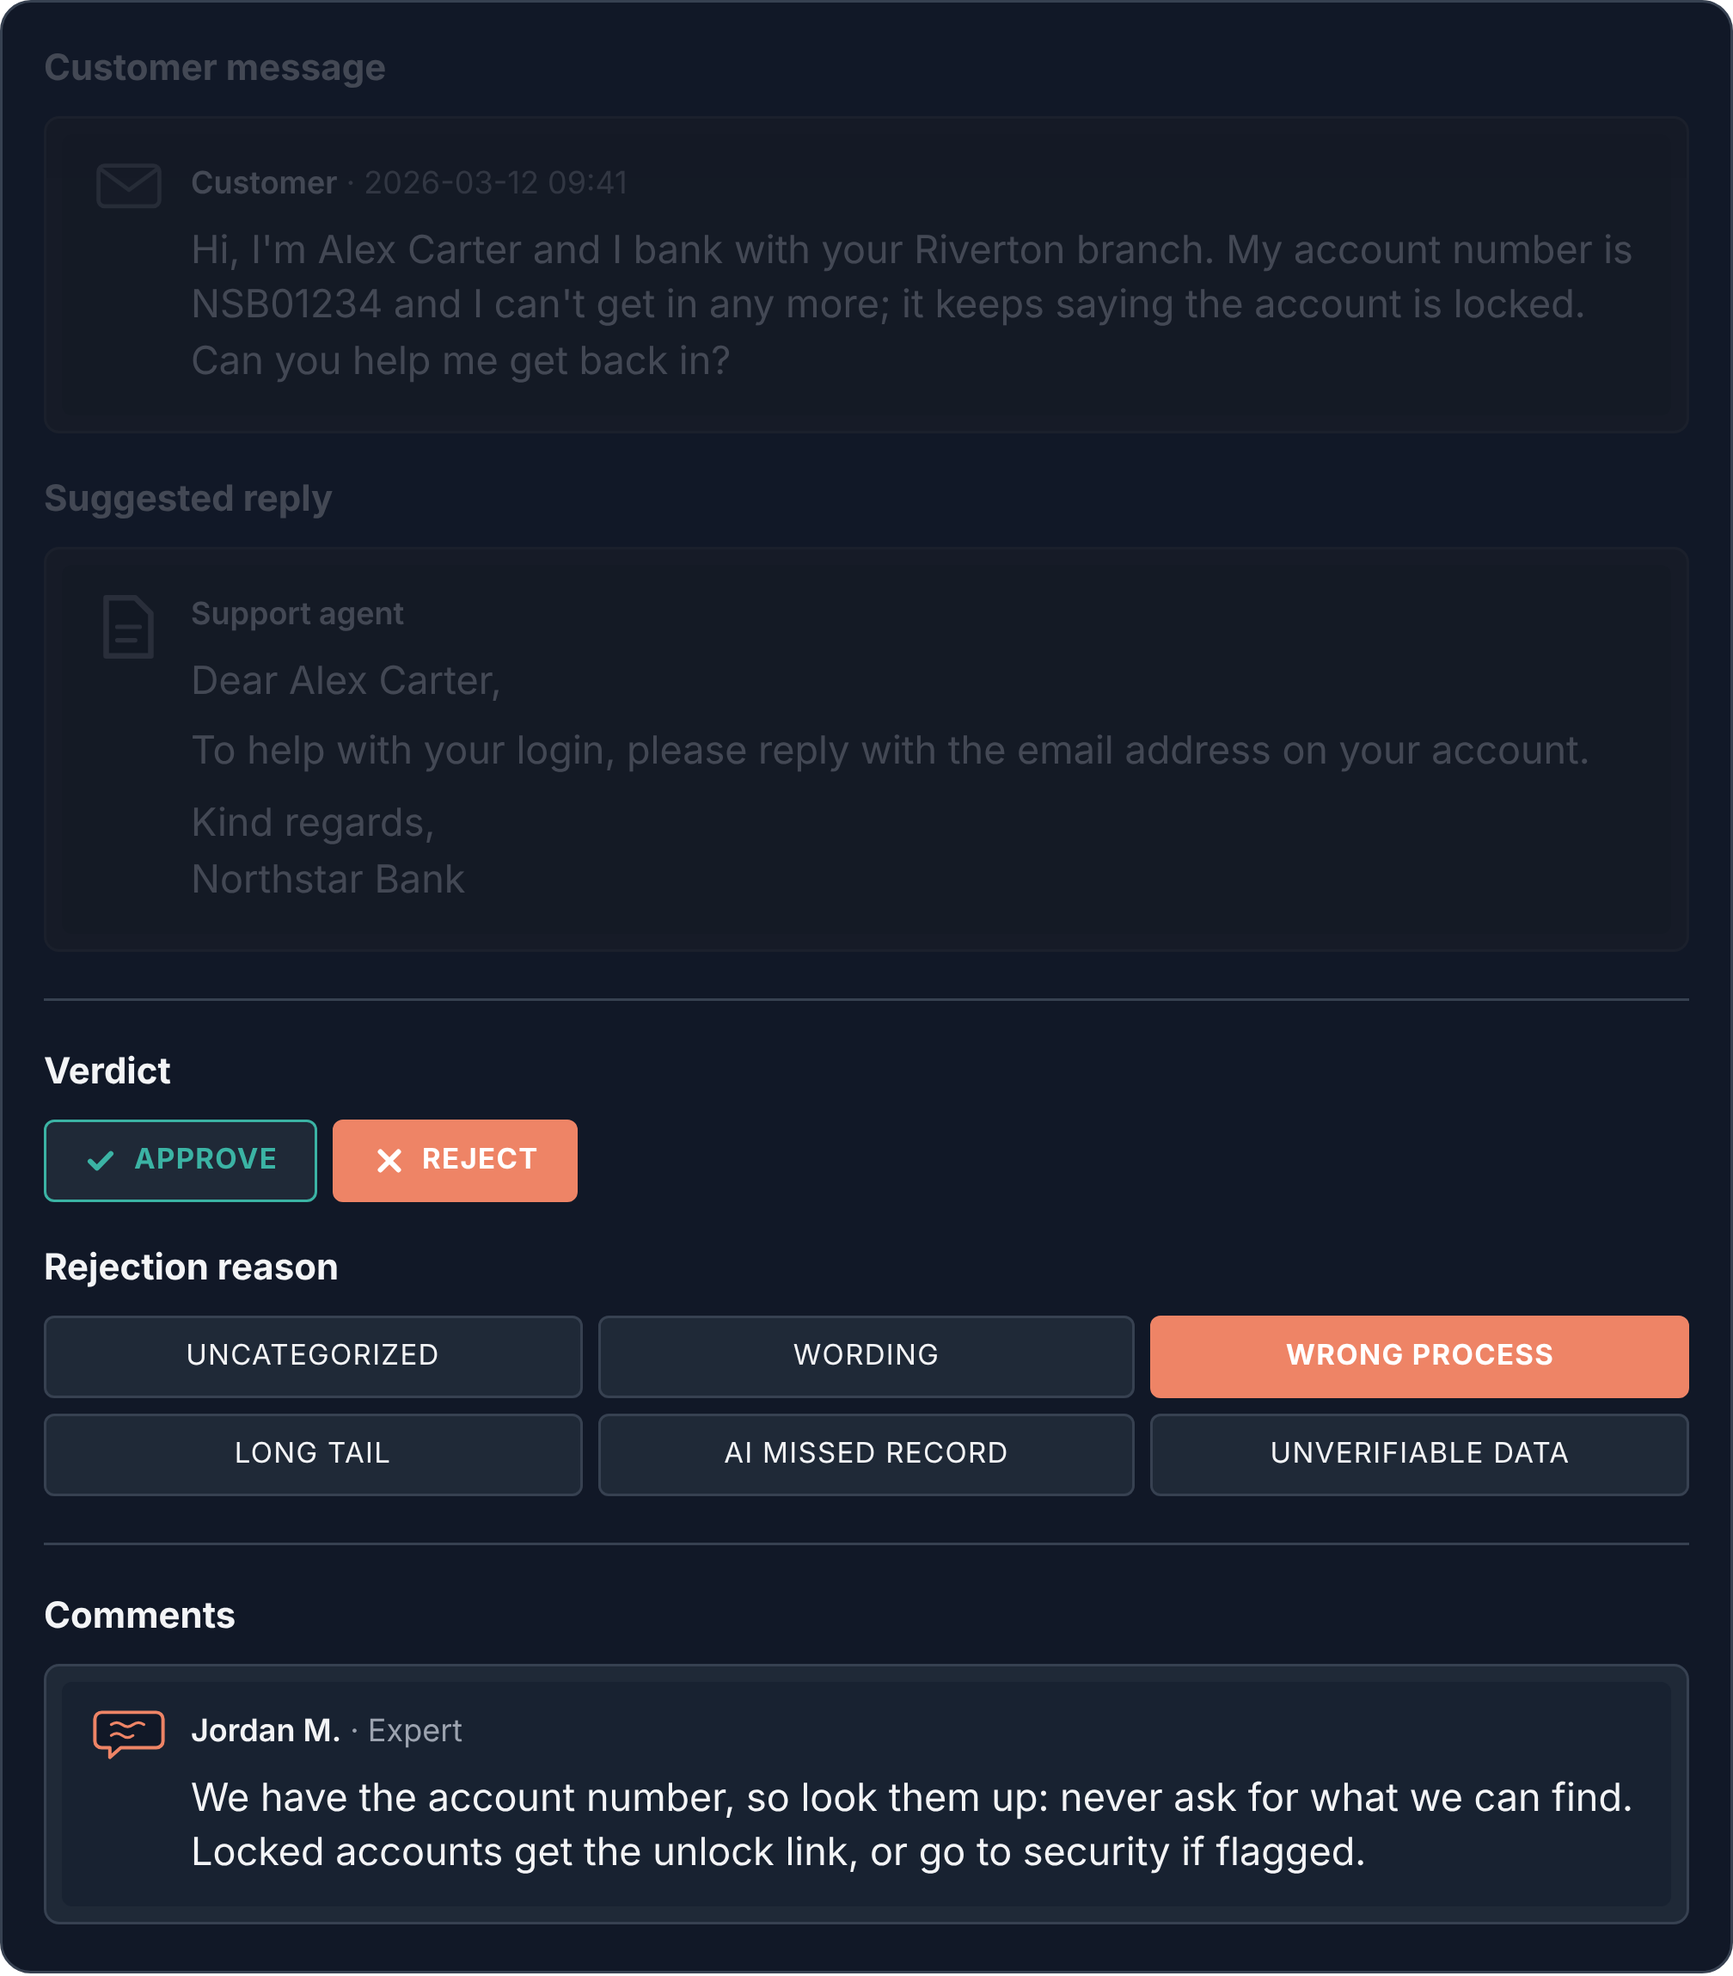
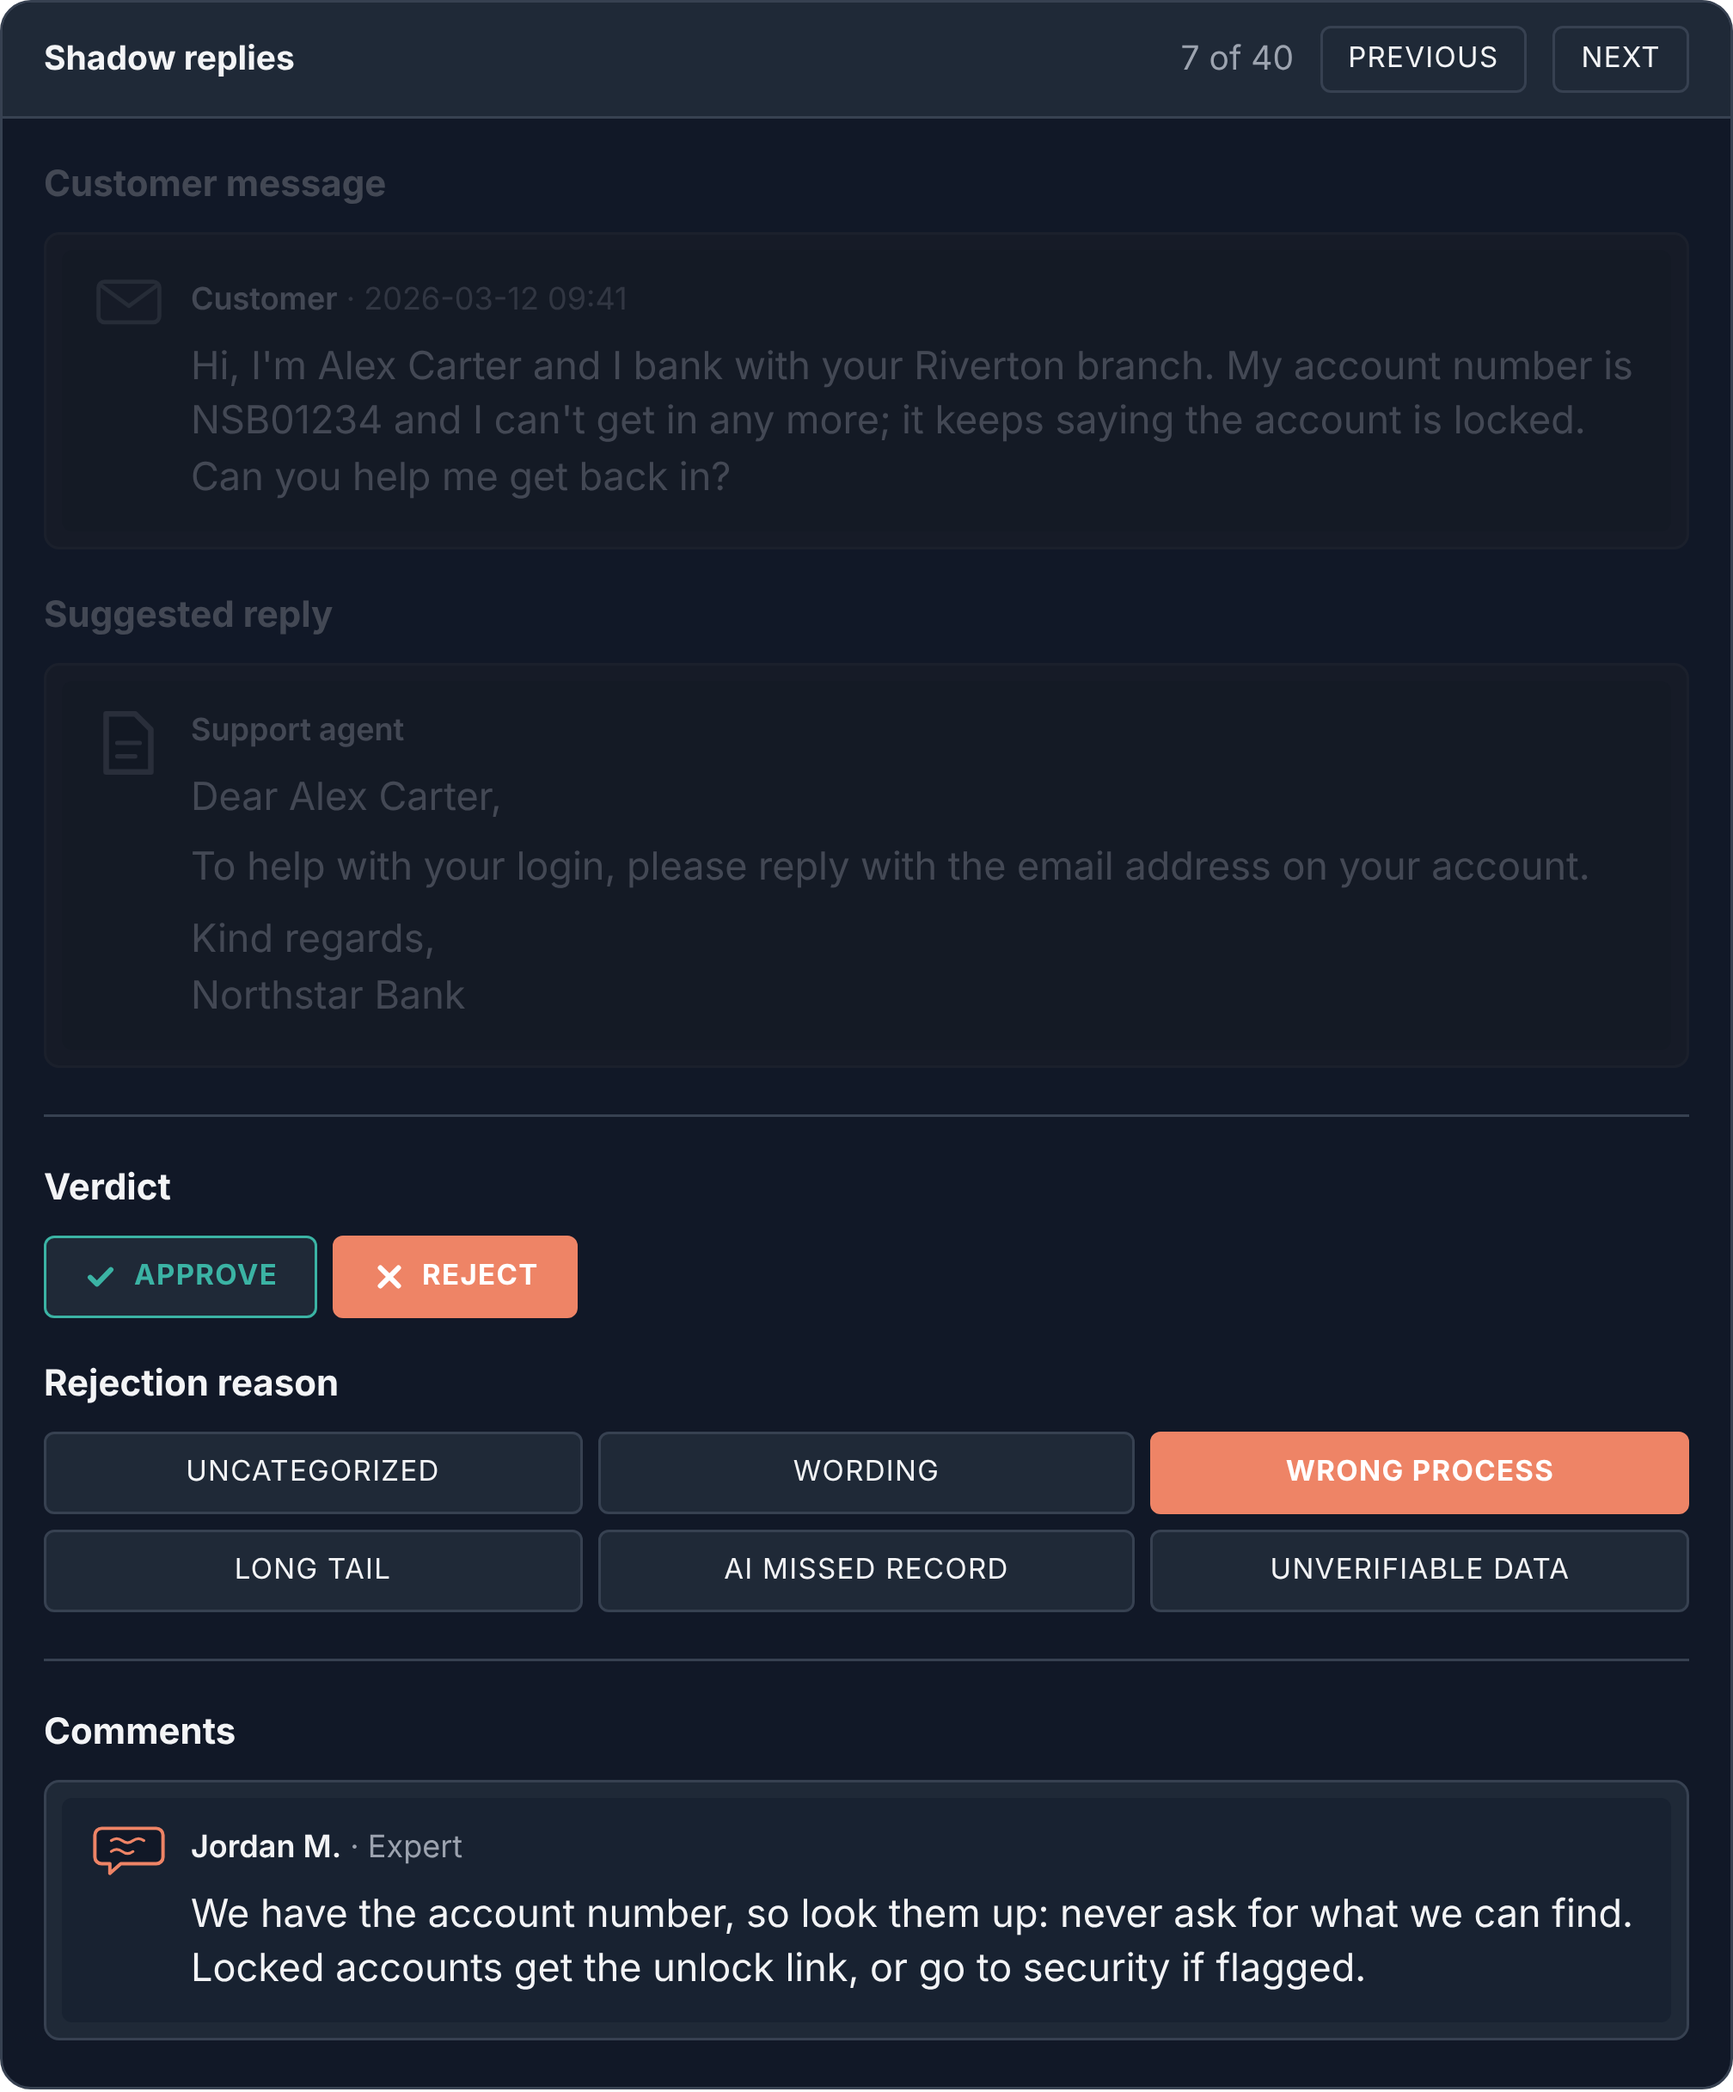
Show The Missing Compiler's loop as asynchronous batch work with ten experts
The store let one developer work with a team of experts without direct
messages: add that to the post, draw the experts as a team on the map,
give the review screen a queue bar, and make it the LinkedIn draft's
second half.

Claude-Session: https://claude.ai/code/session_0177rrjPNJrigh9hD5yZQhfM

diff --git a/src/components/SystemMap.tsx b/src/components/SystemMap.tsx
@@ -1,8 +1,8 @@
 /**
  * The whole system The Missing Compiler is about, as one map: customers write
  * to the support agent, and in shadow its drafts land in the feedback store.
- * The expert grades them in the review screen, and the grade and comment go
- * back into the store; the store and the review screen are the harness I
+ * A team of experts grades them in the review screen, and the grades and
+ * comments go back into the store; the store and the review screen are the harness I
  * built. I read the feedback there and add a comment of my own on how to fix
  * it. Each night the coding agent implements the tickets I have commented on,
  * checks itself against evals and CI (the compiler it has) and ships back
@@ -15,7 +15,7 @@
  * the rest greyed out, so the post reads as one system seen from different
  * angles. Static: rendered on the server, no JavaScript.
  */
-import { color, PALETTE, Person, Expert, Agent, Developer, Evals, Comment, Reply, type Point } from '../remotion/shared';
+import { color, PALETTE, Person, Experts, Agent, Developer, Evals, Comment, Reply, type Point } from '../remotion/shared';
 import { Dim, Badge, Tag, ArrowMarker } from './map-parts';
 
 type NodeId = 'customers' | 'tickets' | 'support' | 'store' | 'expert' | 'me' | 'coder' | 'tests' | 'it' | 'endpoints';
@@ -59,7 +59,7 @@ export const PRESETS = {
   overview: {
     focus: [],
     description:
-      'The whole system: customers write to the support agent; in shadow its drafts land in the feedback store, the expert grades them in the review screen, and grade and comment go back into the store, the harness I built. I read the feedback there and add a comment on how to fix it. Each night the coding agent implements the tickets I commented on, checks itself against evals and CI and ships into the support agent. For a new read tool, the coding agent writes a spec that I hand to IT, who build the endpoint.',
+      'The whole system: customers write to the support agent; in shadow its drafts land in the feedback store, a team of experts grades them in the review screen, each in their own time, and grades and comments go back into the store, the harness I built. I read the feedback there in batches and add a comment on how to fix each one. Each night the coding agent implements the tickets I commented on, checks itself against evals and CI and ships into the support agent. For a new read tool, the coding agent writes a spec that I hand to IT, who build the endpoint.',
   },
   'coding-agents': {
     focus: ['coder', 'compile', 'tests'],
@@ -69,7 +69,7 @@ export const PRESETS = {
   'no-compiler': {
     focus: ['customers', 'messages', 'support', 'expert'],
     small: true,
-    description: 'Highlighted: customer messages, the support agent that drafts the replies, and the expert, the only verdict a reply can get.',
+    description: 'Highlighted: customer messages, the support agent that drafts the replies, and the experts, the only verdict a reply can get.',
   },
   // "The loop we built": where the drafts land, then one map per step.
   harness: {
@@ -80,12 +80,12 @@ export const PRESETS = {
   grade: {
     focus: ['expert', 'review', 'graded', 'store'],
     small: true,
-    description: 'Highlighted: step 1, the expert grades a draft in the review screen; grade and comment go into the store.',
+    description: 'Highlighted: step 1, the experts grade drafts in the review screen; grades and comments go into the store.',
   },
   specify: {
     focus: ['store', 'comment', 'me'],
     small: true,
-    description: 'Highlighted: step 2, I read the expert’s comment from the store and store my own on how to fix it.',
+    description: 'Highlighted: step 2, I read the experts’ comments from the store and store my own on how to fix each one.',
   },
   implement: {
     focus: ['store', 'nightly', 'coder'],
@@ -107,7 +107,7 @@ export const PRESETS = {
   today: {
     focus: ['expert', 'coder'],
     tags: [{ on: 'expert', text: 'Bottleneck' }],
-    description: 'Today: the coding agent writes the code; the bottleneck is the expert’s grading.',
+    description: 'Today: the coding agent writes the code; the bottleneck is the experts’ grading.',
   },
   endpoints: {
     focus: ['coder', 'spec', 'it', 'build', 'endpoints', 'reads', 'support'],
@@ -119,13 +119,13 @@ export const PRESETS = {
   shadow: {
     focus: ['tickets', 'replay', 'support'],
     small: true,
-    description: 'Highlighted: old tickets replayed through the support agent offline, with no expert to grade the replies.',
+    description: 'Highlighted: old tickets replayed through the support agent offline, with no experts to grade the replies.',
   },
   'review-screen': {
     focus: ['expert', 'review', 'graded', 'harness'],
     tags: [{ on: 'expert', text: 'Build this' }],
     small: true,
-    description: 'Highlighted: the expert’s review screen, the part worth building. The store behind it stays greyed out.',
+    description: 'Highlighted: the experts’ review screen, the part worth building. The store behind it stays greyed out.',
   },
   'next-bottleneck': {
     focus: ['me'],
@@ -143,7 +143,7 @@ export const PRESETS = {
     focus: ['customers', 'messages', 'support', 'drafts', 'store', 'review', 'expert', 'graded', 'harness'],
     tags: [{ on: 'expert', text: 'Build first' }],
     small: true,
-    description: 'Highlighted: the shadow path, the store and the expert’s review screen, the first thing to build.',
+    description: 'Highlighted: the shadow path, the store and the experts’ review screen, the first thing to build.',
   },
 } satisfies Record<string, Preset>;
 
@@ -334,7 +334,7 @@ const LABELS: Partial<Record<NodeId, string>> = {
   customers: 'Customers',
   tickets: 'Old tickets',
   support: 'Support agent',
-  expert: 'Expert',
+  expert: 'Experts',
   me: 'Me',
   coder: 'Coding agent',
   tests: 'Evals & CI',
@@ -406,14 +406,14 @@ function NodeIcon({ id, at, agentTranslates, meCodes }: { id: NodeId; at: Point;
     case 'expert':
       return (
         <g>
-          {/* The review screen, with the expert in front of it */}
+          {/* The review screen, with the experts in front of it */}
           <rect x={x - 88} y={y - 44} width={124} height={84} rx={8} fill={color('node-bg')} stroke={color('text')} strokeWidth={2.5} />
           <rect x={x - 78} y={y - 34} width={50} height={8} rx={3} fill={color('node-border')} />
           <rect x={x - 78} y={y - 20} width={92} height={6} rx={3} fill={color('edge')} />
           <rect x={x - 78} y={y - 8} width={80} height={6} rx={3} fill={color('edge')} />
           <rect x={x - 78} y={y + 10} width={22} height={18} rx={4} fill={color('ok')} />
           <rect x={x - 50} y={y + 10} width={22} height={18} rx={4} fill={color('bad')} />
-          <Expert x={x + 62} y={y + 8} scale={1.55} />
+          <Experts x={x + 66} y={y + 6} scale={1.45} />
         </g>
       );
     case 'me':

diff --git a/scripts/mockups/sme-review-screen.html b/scripts/mockups/sme-review-screen.html
@@ -1,7 +1,8 @@
 <!doctype html>
 <!--
   Mockup of the screen subject-matter experts used to grade shadow replies
-  (the-missing-compiler, "The loop we built", step 1).
+  (the-missing-compiler, "The loop we built", step 1). The queue bar on top
+  shows that each expert works through a batch, not single tickets.
 
   Render to PNG with:  npm run mockup:png
   That writes the screen (#mockup) at three stages of the loop, set as a
@@ -68,6 +69,20 @@
   }
 
   .body { padding: 16px 16px 18px; }
+
+  /* The queue: experts work through a batch of drafts at their own pace. */
+  .queue {
+    display: flex;
+    align-items: center;
+    gap: 10px;
+    padding: 9px 16px;
+    background: var(--panel);
+    border-bottom: 1px solid var(--border);
+    font-size: 13px;
+  }
+  .queue .title { font-weight: 650; }
+  .queue .count { color: var(--muted); margin-left: auto; }
+  .queue .btn { padding: 4px 10px; }
 
   h3 {
     margin: 0 0 8px;
@@ -173,6 +188,12 @@
 </head>
 <body>
 <div id="mockup">
+  <div class="queue">
+    <span class="title">Shadow replies</span>
+    <span class="count">7 of 40</span>
+    <span class="btn">Previous</span>
+    <span class="btn">Next</span>
+  </div>
   <div class="body">
     <div class="section part reply">
       <h3>Customer message</h3>

diff --git a/src/remotion/shared.tsx b/src/remotion/shared.tsx
@@ -101,6 +101,15 @@ export const Expert = (place: IconProps) => (
   </Place>
 );
 
+/** A team of subject-matter experts: one expert in front of two others. */
+export const Experts = (place: IconProps) => (
+  <Place {...place}>
+    <Expert x={-15} y={-7} scale={0.8} />
+    <Expert x={17} y={-7} scale={0.8} />
+    <Expert x={0} y={5} />
+  </Place>
+);
+
 /** A coding agent: a terminal window with a prompt. `typing` (0–1) grows the lines it writes. */
 export const Agent = ({ typing = 0, ...place }: IconProps & { typing?: number }) => {
   const lines = [0.9, 0.6, 0.75];

diff --git a/src/content/reposts/linkedin/the-missing-compiler.md b/src/content/reposts/linkedin/the-missing-compiler.md
@@ -16,9 +16,9 @@ So grading did two jobs. It was the check a coding agent gets for free. And it w
 
 Their time set the pace. Grading is one more task in a day that is already full, for people who may suspect they're training their own replacement.
 
-The experts weren't the only wait. Every new kind of answer needed a new endpoint from the client's IT. I wrote the spec, and they usually implemented it within a day. The handoff: I pinged someone on Teams, who pointed their own coding agent at my spec.
+We built the loop around their time. One developer, ten experts, and no direct messages: every grade and comment went into a store next to its ticket. Each expert graded a batch when their day had room. I went through the comments in one sitting, asked follow-up questions right there, and they answered when they got to it. A nightly run picked up every fix at once.
 
-Two coding agents, with a person on each end passing messages between them.
+The one handoff outside the store, endpoints from IT, ran over Teams: two coding agents, with a person on each end passing messages between them.
 
 Coding agents didn't remove the hard part. They made it obvious where it was.
 
